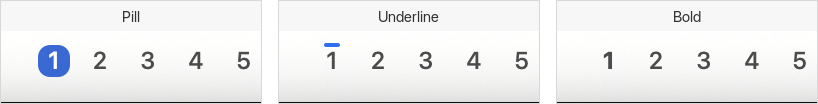
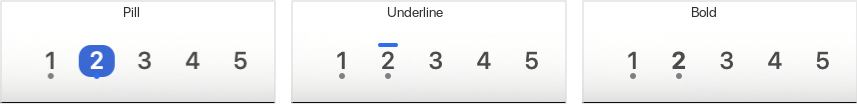
feat: add occupied space indicators

diff --git a/Sources/YabaiBarCore/Configuration.swift b/Sources/YabaiBarCore/Configuration.swift
@@ -37,6 +37,7 @@ public struct AppConfiguration: Codable, Equatable, Sendable {
     public var activeStyle: ActiveIndicatorStyle
     public var showVisibleSpaces: Bool
     public var showEmptySpaces: Bool
+    public var showOccupiedIndicators: Bool
     public var launchAtLogin: Bool
     public var spacing: SpaceSpacing
     public var font: BarFont
@@ -47,6 +48,7 @@ public struct AppConfiguration: Codable, Equatable, Sendable {
         activeStyle: ActiveIndicatorStyle = .pill,
         showVisibleSpaces: Bool = true,
         showEmptySpaces: Bool = true,
+        showOccupiedIndicators: Bool = true,
         launchAtLogin: Bool = true,
         spacing: SpaceSpacing = .regular,
         font: BarFont = .system
@@ -56,6 +58,7 @@ public struct AppConfiguration: Codable, Equatable, Sendable {
         self.activeStyle = activeStyle
         self.showVisibleSpaces = showVisibleSpaces
         self.showEmptySpaces = showEmptySpaces
+        self.showOccupiedIndicators = showOccupiedIndicators
         self.launchAtLogin = launchAtLogin
         self.spacing = spacing
         self.font = font
@@ -74,12 +77,12 @@ public struct AppConfiguration: Codable, Equatable, Sendable {
 
     public func displayedSpaces(from spaces: [YabaiSpace]) -> [YabaiSpace] {
         spaces
-            .filter { showEmptySpaces || !$0.windows.isEmpty || $0.hasFocus || $0.isVisible }
+            .filter { showEmptySpaces || $0.isOccupied || $0.hasFocus || $0.isVisible }
             .sorted { $0.index < $1.index }
     }
 
     enum CodingKeys: String, CodingKey {
-        case yabaiPath, spaceDisplay, activeStyle, showVisibleSpaces, showEmptySpaces
+        case yabaiPath, spaceDisplay, activeStyle, showVisibleSpaces, showEmptySpaces, showOccupiedIndicators
         case launchAtLogin, spacing, font
     }
 
@@ -90,6 +93,7 @@ public struct AppConfiguration: Codable, Equatable, Sendable {
         activeStyle = try container.decodeIfPresent(ActiveIndicatorStyle.self, forKey: .activeStyle) ?? .pill
         showVisibleSpaces = try container.decodeIfPresent(Bool.self, forKey: .showVisibleSpaces) ?? true
         showEmptySpaces = try container.decodeIfPresent(Bool.self, forKey: .showEmptySpaces) ?? true
+        showOccupiedIndicators = try container.decodeIfPresent(Bool.self, forKey: .showOccupiedIndicators) ?? true
         launchAtLogin = try container.decodeIfPresent(Bool.self, forKey: .launchAtLogin) ?? true
         spacing = try container.decodeIfPresent(SpaceSpacing.self, forKey: .spacing) ?? .regular
         font = try container.decodeIfPresent(BarFont.self, forKey: .font) ?? .system

diff --git a/Sources/YabaiBar/WorkspaceStatusView.swift b/Sources/YabaiBar/WorkspaceStatusView.swift
@@ -104,7 +104,8 @@ private final class WorkspaceButton: NSButton {
         focusRingType = .default
         toolTip = space.label.isEmpty ? "Space \(space.index)" : "Space \(space.index): \(space.label)"
         setAccessibilityLabel(toolTip)
-        setAccessibilityValue(space.hasFocus ? "Focused" : space.isVisible ? "Visible on another display" : "Not visible")
+        let visibility = space.hasFocus ? "Focused" : space.isVisible ? "Visible on another display" : "Not visible"
+        setAccessibilityValue("\(visibility), \(space.isOccupied ? "occupied" : "empty")")
     }
 
     required init?(coder: NSCoder) { nil }
@@ -150,6 +151,19 @@ private final class WorkspaceButton: NSButton {
         } else if configuration.showVisibleSpaces && space.isVisible && !space.hasFocus {
             NSColor.secondaryLabelColor.setFill()
             NSBezierPath(ovalIn: NSRect(x: bounds.midX + contentOffsetX - 1.5, y: 2, width: 3, height: 3)).fill()
+        }
+
+        if configuration.showOccupiedIndicators && space.isOccupied {
+            let color: NSColor = space.hasFocus && configuration.activeStyle == .pill
+                ? .controlAccentColor
+                : .secondaryLabelColor
+            color.setFill()
+            NSBezierPath(ovalIn: NSRect(
+                x: bounds.midX + contentOffsetX - 1.5,
+                y: bounds.height - 5,
+                width: 3,
+                height: 3
+            )).fill()
         }
     }
 

diff --git a/Tests/YabaiBarCoreTests/YabaiBarCoreTests.swift b/Tests/YabaiBarCoreTests/YabaiBarCoreTests.swift
@@ -12,6 +12,7 @@ final class YabaiBarCoreTests: XCTestCase {
         XCTAssertTrue(spaces[2].isNativeFullscreen)
         XCTAssertEqual(spaces[2].display, 2)
         XCTAssertEqual(spaces[0].windows, [101, 102])
+        XCTAssertTrue(spaces[0].isOccupied)
     }
 
     func testDisplayModesAndEmptySpaceFiltering() {
@@ -89,6 +90,13 @@ final class YabaiBarCoreTests: XCTestCase {
         XCTAssertEqual(partial.spaceDisplay, .label)
         XCTAssertFalse(partial.showEmptySpaces)
         XCTAssertTrue(partial.showVisibleSpaces)
+        XCTAssertTrue(partial.showOccupiedIndicators)
+
+        let hiddenOccupiedIndicators = try JSONDecoder().decode(
+            AppConfiguration.self,
+            from: Data(#"{"showOccupiedIndicators":false}"#.utf8)
+        )
+        XCTAssertFalse(hiddenOccupiedIndicators.showOccupiedIndicators)
     }
 
     func testConfigurationWritesAtomicallyAndReloads() throws {

diff --git a/Sources/YabaiBar/SettingsView.swift b/Sources/YabaiBar/SettingsView.swift
@@ -110,6 +110,7 @@ private struct SettingsView: View {
                 Text("Underline").tag(ActiveIndicatorStyle.underline)
                 Text("Bold text").tag(ActiveIndicatorStyle.bold)
             }
+            Toggle("Show occupied indicators", isOn: $draft.showOccupiedIndicators)
             Picker("Spacing", selection: $draft.spacing) {
                 Text("Compact").tag(SpaceSpacing.compact)
                 Text("Regular").tag(SpaceSpacing.regular)

diff --git a/Sources/YabaiBarCore/Models.swift b/Sources/YabaiBarCore/Models.swift
@@ -10,6 +10,8 @@ public struct YabaiSpace: Codable, Identifiable, Equatable, Sendable {
     public let isNativeFullscreen: Bool
     public let windows: [Int]
 
+    public var isOccupied: Bool { !windows.isEmpty }
+
     public init(
         id: UInt64,
         index: Int,

diff --git a/DESIGN.md b/DESIGN.md
@@ -60,7 +60,7 @@ components:
 
 Yabai Bar should look like a compact macOS control that has always belonged in the menu bar. Its identity comes from precise state communication and restraint. System appearance, typography, controls, and accessibility behavior take priority over decorative branding.
 
-The workspace strip is the signature component. Focus uses a filled rounded selection, visibility on another display uses a small dot, and unavailable state uses muted text plus an exclamation mark. Settings remain a conventional native utility window.
+The workspace strip is the signature component. Focus uses a filled rounded selection, occupancy uses a small dot below the label, visibility on another display uses a small dot above the label, and unavailable state uses muted text plus an exclamation mark. Settings remain a conventional native utility window.
 
 **Key Characteristics:**
 
@@ -119,7 +119,7 @@ The menu-bar surface is flat. State uses system fills and text changes, not shad
 
 ## Shapes
 
-The focused workspace and pressed overlay use gently rounded 6-point corners. The visible-on-another-display cue is a 3-point circular dot. Underline style uses a 2-point rounded rule. Pills are reserved for the compact active workspace control.
+The focused workspace and pressed overlay use gently rounded 6-point corners. Occupancy and visible-on-another-display cues use 3-point circular dots on opposite sides of the label. Underline style uses a 2-point rounded rule. Pills are reserved for the compact active workspace control.
 
 ## Components
 
@@ -128,7 +128,8 @@ The focused workspace and pressed overlay use gently rounded 6-point corners. Th
 - **Shape:** A compact rectangular hit target with a 6-point focused pill.
 - **Default:** System label text on the transparent menu-bar surface.
 - **Focused:** System selected-content fill and selected menu-item text.
-- **Visible elsewhere:** A small secondary-label dot below the label when the space is visible but not focused.
+- **Visible elsewhere:** A small secondary-label dot above the label when the space is visible but not focused.
+- **Occupied:** A small secondary-label dot below the label when yabai reports one or more windows in the space.
 - **Pressed / Focus:** A semantic label-color overlay is drawn above the selected pill; the native focus ring remains enabled.
 - **Unavailable:** Buttons stop accepting focus commands and use the disabled-control text color when yabai is disconnected.
 - **Capability-limited:** Buttons become inert without changing appearance when the current macOS and yabai combination cannot focus spaces.

diff --git a/README.md b/README.md
@@ -62,6 +62,7 @@ The optional config file lives at `~/.config/yabai-bar/config.json`. Missing key
   "font": "system",
   "launchAtLogin": true,
   "showEmptySpaces": true,
+  "showOccupiedIndicators": true,
   "showVisibleSpaces": true,
   "spaceDisplay": "index",
   "spacing": "regular",
